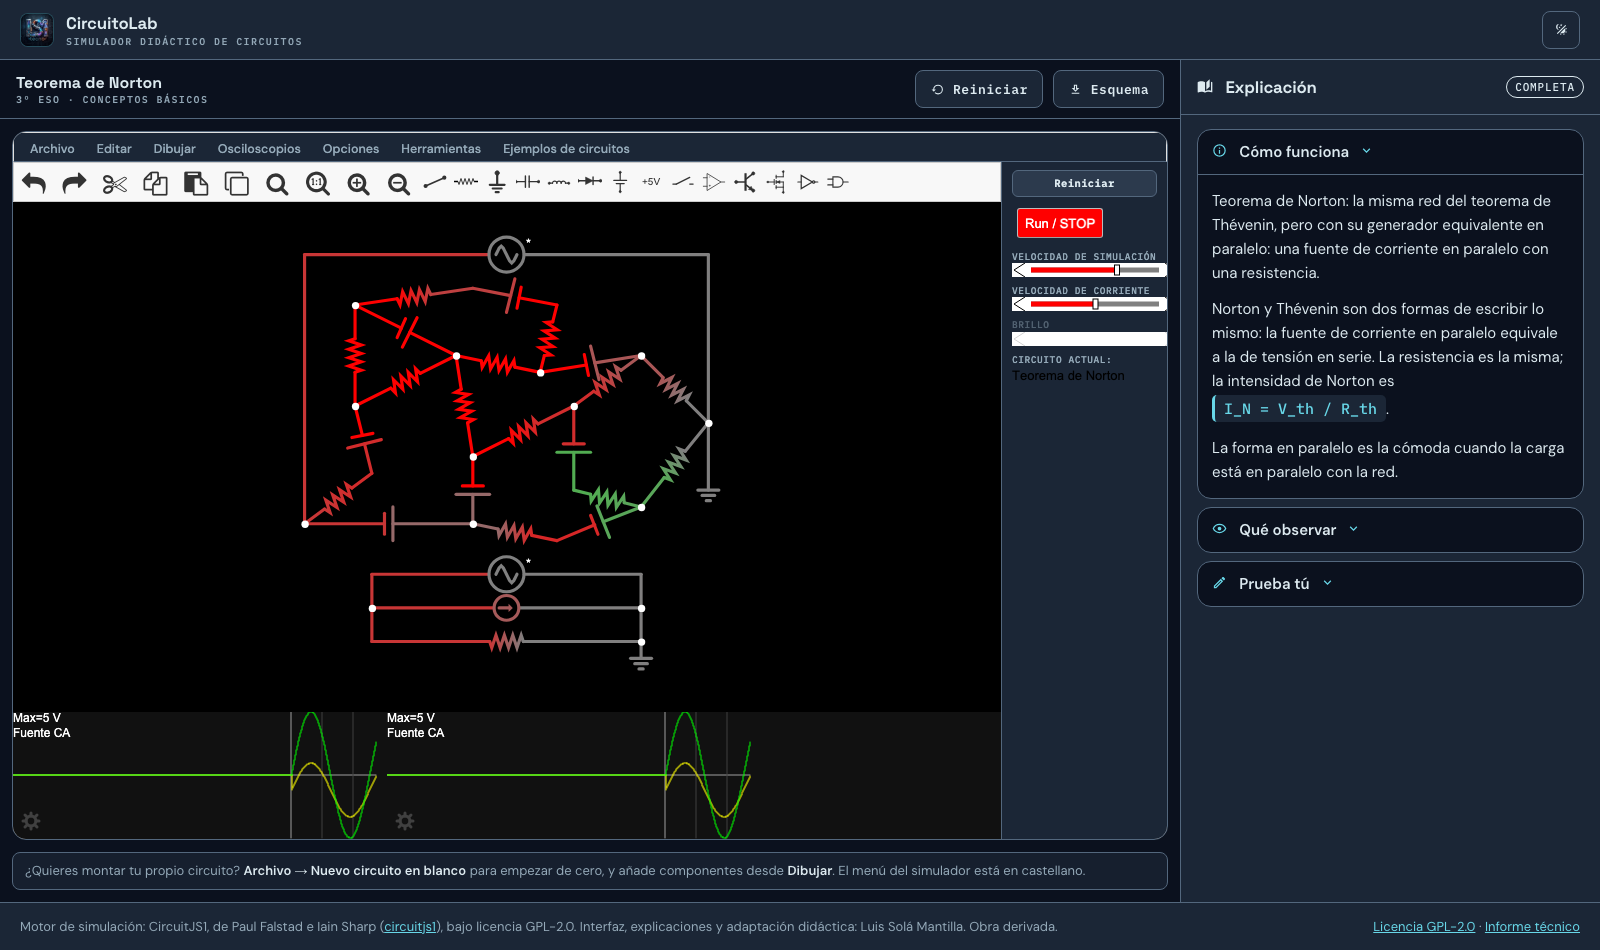
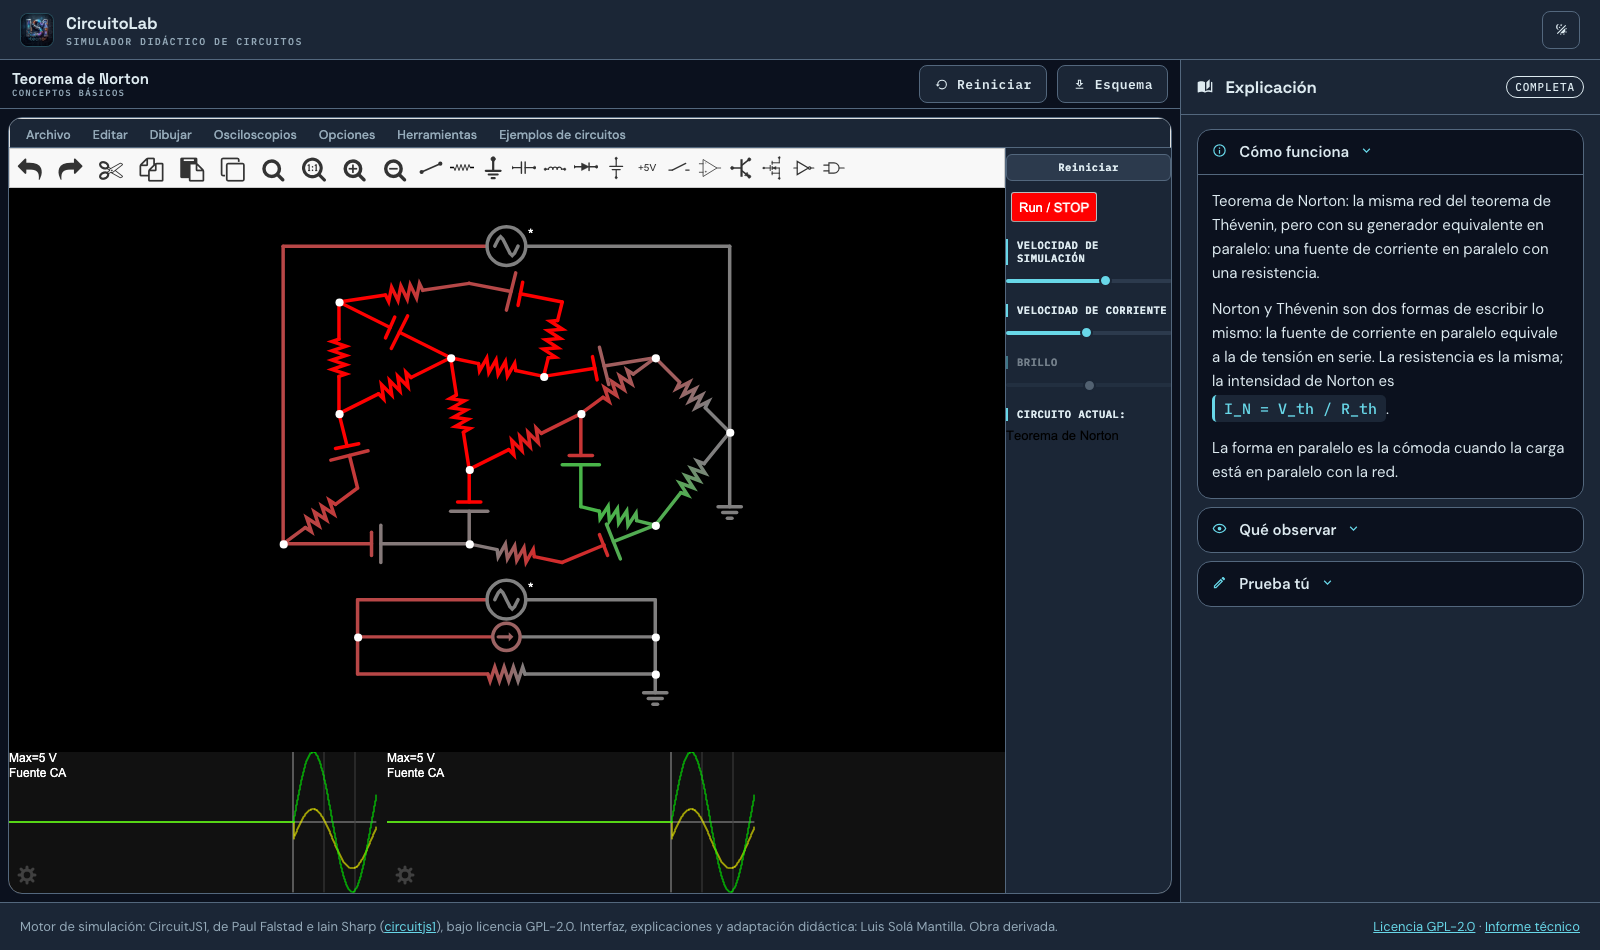
feat(ui): barra compacta sin curso, fuera cajon de ayuda y cursores con el brand
- La barra del simulador pierde el curso (3o ESO, 4o ESO...) y se compacta.
- Se elimina el cajon de ayuda bajo el lienzo.
- El padding del panel cortaba los cursores (scrollWidth 186 > 165): fuera.
- El motor dibuja los cursores en canvas con carril de flechas y relleno rojo.
  Se sustituyen por inputs range del brand que pilotan el motor disparando los
  mismos eventos de raton; la posicion inicial se lee del propio canvas.
- Brillo aparece apagado porque el motor lo marca deshabilitado.

Changed region(s): [[0.0, 0.2442, 0.6875, 0.9463], [0.0, 0.0611, 0.75, 0.4884], [0.0, 0.7326, 0.0625, 0.8242]]

diff --git a/assets/js/app.js b/assets/js/app.js
@@ -97,7 +97,7 @@ function aplicarTema(tema) {
     boton.setAttribute('aria-label', tema === 'light' ? 'Cambiar a modo oscuro' : 'Cambiar a modo claro');
   }
   // el menú del motor se tiñe con el tema del shell (mismo origen)
-  if (ESTADO.api) estilizarMotor();
+  if (ESTADO.api) { estilizarMotor(); modernizarCursores(); }
 }
 
 function initTema() {
@@ -200,7 +200,8 @@ function pintarCabecera(c) {
   const subtitulo = $('#subtitulo-circuito');
   if (titulo) titulo.textContent = nombreCircuito(c);
   if (subtitulo) {
-    const partes = [c.curso, c.categoria];
+    // el curso (3º ESO, 4º ESO...) fuera: Luis no lo quiere en la barra
+    const partes = [c.categoria];
     if (c.subcategoria) partes.push(c.subcategoria);
     subtitulo.textContent = partes.join(' · ');
   }
@@ -233,6 +234,8 @@ function conectarAPI() {
       if (w && w.CircuitJS1) {
         ESTADO.api = w.CircuitJS1;
         estilizarMotor();
+        modernizarCursores();
+        vigilarPanel();
         vigilarCargasDelMotor();
         if (ESTADO.circuitoActual) cargarCircuitoEnMotor(ESTADO.circuitoActual);
         return;
@@ -271,6 +274,35 @@ function estilizarMotor() {
   }
 
   st.textContent = `
+    /* --- cursores propios (el motor los dibuja en canvas, estilo 2003) --- */
+    .cl-cursor-caja { position: relative; width: 166px; height: 22px; margin: 2px 0 0 0; }
+    .cl-cursor-caja > canvas { position: absolute; inset: 0; opacity: 0; pointer-events: none; }
+    .cl-cursor {
+      -webkit-appearance: none; appearance: none;
+      position: absolute; inset: 0; width: 100%; height: 22px;
+      margin: 0; padding: 0; background: transparent; cursor: pointer;
+      --p: 50%;
+    }
+    .cl-cursor::-webkit-slider-runnable-track {
+      height: 4px; border-radius: 2px;
+      background: linear-gradient(to right,
+        rgb(${acento}) 0%, rgb(${acento}) var(--p),
+        rgb(${realce}) var(--p), rgb(${realce}) 100%);
+    }
+    .cl-cursor::-webkit-slider-thumb {
+      -webkit-appearance: none; appearance: none;
+      width: 13px; height: 13px; margin-top: -4.5px;
+      border-radius: 50%; background: rgb(${acento});
+      border: 2px solid rgb(${fondo});
+      box-shadow: none;
+    }
+    .cl-cursor--off { opacity: .45; cursor: default; }
+    .cl-cursor--off::-webkit-slider-runnable-track { background: rgb(${realce}); }
+    .cl-cursor--off::-webkit-slider-thumb { background: rgb(${tenue}); }
+    .cl-cursor:focus-visible { outline: none; }
+    .cl-cursor:focus-visible::-webkit-slider-thumb {
+      box-shadow: 0 0 0 3px rgb(${acento} / .35);
+    }
     /* la fuente del brand, cargada también dentro del iframe */
     @font-face {
       font-family: 'DM Sans';
@@ -362,9 +394,13 @@ function estilizarMotor() {
     #painel {
       background: rgb(${fondo}) !important;
       border-left: 1px solid rgb(${borde}) !important;
-      padding: 8px 10px 0 !important;
+      /* sin padding lateral: los cursores del motor miden 166 px fijos y con
+         padding se salian del panel (scrollWidth 186 > 165) y se cortaban */
+      padding: 6px 0 0 0 !important;
       box-sizing: border-box !important;
+      overflow: hidden !important;
     }
+    #painel .topButton { width: 166px !important; }
     #painel .topButton {
       width: 100% !important;
       margin: 0 0 6px 0 !important;
@@ -379,12 +415,15 @@ function estilizarMotor() {
     }
     #painel .topButton:hover { border-color: rgb(${acento}) !important; color: rgb(${acento}) !important; }
     #painel .topSpace {
-      font: 500 9.5px/1.3 'IBM Plex Mono', ui-monospace, monospace !important;
-      letter-spacing: .06em;
+      font: 600 10.5px/1.25 'IBM Plex Mono', ui-monospace, monospace !important;
+      letter-spacing: .05em;
       text-transform: uppercase;
-      color: rgb(${tenue}) !important;
-      margin-top: 8px !important;
+      /* antes iban en color tenue a 9.5 px: no se leian en oscuro */
+      color: rgb(${fg}) !important;
+      margin: 12px 0 5px 0 !important;
+      padding-left: 9px !important;
       white-space: normal !important;
+      border-left: 2px solid rgb(${acento}) !important;
     }
     #painel .topSpace.disabled { opacity: .45; }
     #painel label.topSpace { display: block; }
@@ -394,6 +433,118 @@ function estilizarMotor() {
     /* el lienzo sigue negro: es el color propio del simulador */
     body { margin: 0 !important; }
   `;
+}
+
+/* ------------------------------------------------- cursores del motor */
+/** El motor dibuja sus cursores en <canvas>: carril con flechas en los extremos,
+ *  relleno rojo y tirador metálico. Es estética de 2003 y NO se puede recolorear
+ *  por CSS (los píxeles los pinta el propio motor).
+ *
+ *  Solución: se tapan con un input range del brand y se pilotan disparando los
+ *  mismos eventos de ratón que produciría el usuario sobre el canvas original.
+ *  El motor sigue siendo el dueño del valor; solo cambia la piel. */
+function modernizarCursores() {
+  const iframe = $('#lienzo');
+  let doc;
+  try { doc = iframe.contentDocument; } catch (e) { return; }
+  if (!doc) return;
+  const panel = doc.getElementById('painel');
+  if (!panel) return;
+
+  // idempotente: se deshace el envoltorio anterior antes de volver a envolver.
+  // Sin esto, cada reconstruccion del panel dejaba cursores viejos sin etiqueta.
+  for (const caja of panel.querySelectorAll('.cl-cursor-caja')) {
+    const lienzo = caja.querySelector('canvas');
+    if (lienzo) {
+      delete lienzo.dataset.clCursor;
+      caja.parentNode.insertBefore(lienzo, caja);
+    }
+    caja.remove();
+  }
+
+  for (const c of panel.querySelectorAll('canvas')) {
+    if (c.dataset.clCursor) continue;
+    // solo los cursores que llevan etiqueta del motor; los canvas sueltos son
+    // restos de una reconstruccion a medias y no deben mostrarse
+    const etiquetaEl = c.previousElementSibling;
+    const tieneEtiqueta = etiquetaEl && etiquetaEl.classList &&
+                          etiquetaEl.classList.contains('topSpace');
+    if (!tieneEtiqueta) { c.style.display = 'none'; continue; }
+
+    // posición de partida: hasta dónde llega el relleno rojo del motor
+    const etiqueta = (etiquetaEl && etiquetaEl.textContent || '').trim();
+    let frac = 0.5;
+    try {
+      const datos = c.getContext('2d').getImageData(0, 0, c.width, c.height).data;
+      const fila = Math.floor(c.height / 2);
+      let ultimo = -1;
+      for (let x = 0; x < c.width; x++) {
+        const i = (fila * c.width + x) * 4;
+        if (datos[i] > 110 && datos[i + 1] < 100 && datos[i + 2] < 100) ultimo = x;
+      }
+      if (ultimo > 0) frac = ultimo / c.width;
+    } catch (e) { /* canvas opaco: se queda en el centro */ }
+
+    const caja = doc.createElement('div');
+    caja.className = 'cl-cursor-caja';
+    c.parentNode.insertBefore(caja, c);
+    caja.appendChild(c);
+
+    const entrada = doc.createElement('input');
+    entrada.type = 'range';
+    entrada.min = '0';
+    entrada.max = '1000';
+    entrada.value = String(Math.round(frac * 1000));
+    entrada.className = 'cl-cursor';
+    entrada.setAttribute('aria-label', etiqueta || 'Cursor de simulación');
+    entrada.style.setProperty('--p', (frac * 100).toFixed(1) + '%');
+    // Brillo viene deshabilitado en el motor: el cursor debe parecerlo
+    if (etiquetaEl && etiquetaEl.classList.contains('disabled')) {
+      entrada.classList.add('cl-cursor--off');
+      entrada.disabled = true;
+    }
+    caja.appendChild(entrada);
+
+    const mover = (valor) => {
+      const r = c.getBoundingClientRect();
+      if (!r.width) return;
+      const x = r.x + (valor / 1000) * r.width;
+      const y = r.y + r.height / 2;
+      const enviar = (tipo) => c.dispatchEvent(new MouseEvent(tipo, {
+        bubbles: true, cancelable: true, view: doc.defaultView,
+        clientX: x, clientY: y, button: 0, buttons: 1,
+      }));
+      enviar('mousedown');
+      enviar('mousemove');
+      enviar('mouseup');
+    };
+
+    entrada.addEventListener('input', () => {
+      entrada.style.setProperty('--p', (entrada.value / 10).toFixed(1) + '%');
+      mover(Number(entrada.value));
+    });
+
+    c.dataset.clCursor = '1';
+  }
+}
+
+/** El motor reconstruye el panel al cambiar de circuito: hay que reponer los
+ *  cursores cada vez. */
+function vigilarPanel() {
+  const iframe = $('#lienzo');
+  let doc;
+  try { doc = iframe.contentDocument; } catch (e) { return; }
+  const panel = doc && doc.getElementById('painel');
+  if (!panel || panel.__clVigilado) return;
+  panel.__clVigilado = true;
+  const Observador = doc.defaultView.MutationObserver;
+  if (!Observador) return;
+  const obs = new Observador(() => {
+    if (panel.__clPendiente) return;
+    panel.__clPendiente = true;
+    setTimeout(() => { panel.__clPendiente = false; modernizarCursores(); }, 160);
+  });
+  obs.observe(panel, { childList: true, subtree: true });
 }
 
 /** Carga un circuito en el motor por la API (mismo origen). */

diff --git a/assets/css/app.css b/assets/css/app.css
@@ -156,10 +156,11 @@
   display: flex;
   align-items: center;
   gap: 10px;
-  padding: 10px 16px;
+  /* barra minima: cada pixel que se lleva aqui es simulador que se pierde */
+  padding: 5px 12px;
   border-bottom: 1px solid rgb(var(--border-rgb));
   flex: none;
-  min-height: 52px;
+  min-height: 0;
 }
 
 .simulador__titulo {
@@ -169,17 +170,17 @@
   flex: 1;
 }
 .simulador__titulo strong {
-  font: 700 1rem var(--font-display);
+  font: 700 0.9375rem var(--font-display);
   overflow: hidden;
   text-overflow: ellipsis;
   white-space: nowrap;
 }
-.simulador__titulo .kicker { font-size: 0.625rem; }
+.simulador__titulo .kicker { font-size: 0.5625rem; line-height: 1.2; }
 
 .simulador__marco {
   flex: 1;
   min-height: 0;
-  padding: 12px;
+  padding: 8px;
   display: flex;
 }
 
@@ -197,20 +198,6 @@
 }
 [data-theme="light"] .simulador__lienzo { background: #fff; }
 
-/* Recordatorio de que el simulador se puede editar: el menú del motor está
-   visible (Dibujar / Archivo > Nuevo), pero hay que decirlo. */
-.simulador__ayuda {
-  flex: none;
-  margin: 0 12px 12px;
-  padding: 8px 12px;
-  border: 1px solid rgb(var(--border-rgb));
-  border-radius: var(--r-sm);
-  background: rgb(var(--surface2-rgb) / 0.35);
-  font-size: 0.8125rem;
-  line-height: 1.5;
-  color: rgb(var(--muted-rgb));
-}
-.simulador__ayuda strong { color: rgb(var(--fg-rgb)); font-weight: 600; }
 
 .simulador__lienzo iframe {
   width: 100%;

diff --git a/index.html b/index.html
@@ -62,11 +62,6 @@
           <iframe id="lienzo" title="Simulador de circuitos" src="about:blank"></iframe>
         </div>
       </div>
-      <p class="simulador__ayuda">
-        ¿Quieres montar tu propio circuito? <strong>Archivo → Nuevo circuito en
-        blanco</strong> para empezar de cero, y añade componentes desde
-        <strong>Dibujar</strong>. El menú del simulador está en castellano.
-      </p>
     </main>
 
     <!-- ---------- PANEL DIDÁCTICO ---------- -->
